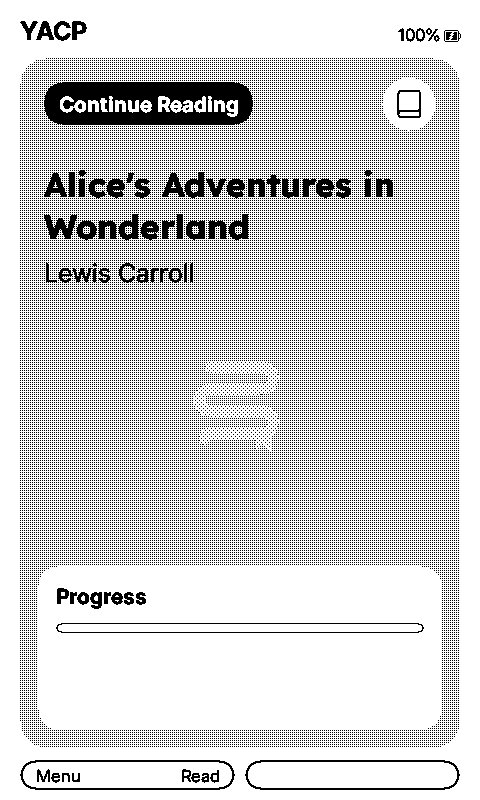
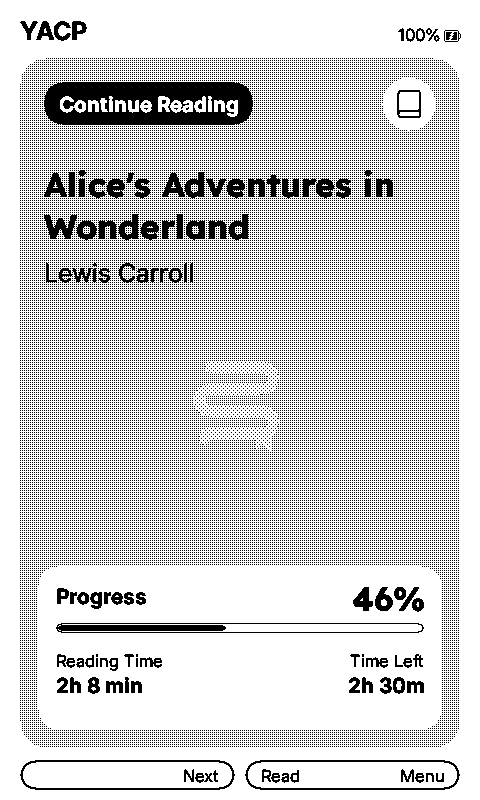
docs: improve grayscale media previews

diff --git a/scripts/build_media_previews.py b/scripts/build_media_previews.py
@@ -1,0 +1,277 @@
+#!/usr/bin/env python3
+"""Build resize-friendly documentation previews from 1-bit e-ink captures.
+
+The firmware and raw screenshots remain 1-bit. This script only changes the
+copies published in documentation: known ordered-dither tiles are replaced by
+flat grayscale pixels before a high-quality 2x resize.
+"""
+
+from __future__ import annotations
+
+import argparse
+from collections import Counter
+from pathlib import Path
+
+from PIL import Image, ImageChops, ImageDraw, ImageFilter, ImageSequence
+
+
+ROOT = Path(__file__).resolve().parents[1]
+DEFAULT_SOURCE_DIR = ROOT / "docs" / "images" / "yacp"
+DEFAULT_OUTPUT_DIR = DEFAULT_SOURCE_DIR / "media"
+DEFAULT_ASSETS = (
+    "home.png",
+    "home-switcher.gif",
+    "reading-stats.png",
+    "reading-rhythm.png",
+    "autonomy.png",
+)
+
+LIGHT_GRAY = 191  # One black pixel per 2x2 tile.
+DARK_GRAY = 127  # Checkerboard: two black pixels per 2x2 tile.
+PALE_GRAY = 223  # Two black pixels per 4x4 tile, used by the Home mark.
+
+
+def _black_positions(image: Image.Image, x: int, y: int) -> set[tuple[int, int]]:
+    return {
+        (dx, dy)
+        for dy in range(4)
+        for dx in range(4)
+        if image.getpixel((x + dx, y + dy)) < 128
+    }
+
+
+def _ordered_gray(
+    positions: set[tuple[int, int]], x: int, y: int
+) -> tuple[int, object] | None:
+    if len(positions) == 4:
+        for phase_x in (0, 1):
+            for phase_y in (0, 1):
+                expected = {
+                    (phase_x, phase_y),
+                    (phase_x + 2, phase_y),
+                    (phase_x, phase_y + 2),
+                    (phase_x + 2, phase_y + 2),
+                }
+                if positions == expected:
+                    return LIGHT_GRAY, ((x + phase_x) % 2, (y + phase_y) % 2)
+
+    if len(positions) == 8:
+        for phase in (0, 1):
+            expected = {
+                (dx, dy)
+                for dy in range(4)
+                for dx in range(4)
+                if (dx + dy) % 2 == phase
+            }
+            if positions == expected:
+                return DARK_GRAY, (x + y + phase) % 2
+
+    if len(positions) == 2:
+        first, second = positions
+        if abs(first[0] - second[0]) == 2 and abs(first[1] - second[1]) == 2:
+            residues = frozenset(
+                {
+                    ((x + first[0]) % 4, (y + first[1]) % 4),
+                    ((x + second[0]) % 4, (y + second[1]) % 4),
+                }
+            )
+            return PALE_GRAY, residues
+
+    return None
+
+
+def _expected_mask(size: tuple[int, int], gray: int, key: object) -> Image.Image:
+    width, height = size
+    pixels = bytearray(width * height)
+
+    if gray == LIGHT_GRAY:
+        phase_x, phase_y = key
+        for y in range(phase_y, height, 2):
+            row = y * width
+            for x in range(phase_x, width, 2):
+                pixels[row + x] = 255
+    elif gray == DARK_GRAY:
+        phase = int(key)
+        for y in range(height):
+            row = y * width
+            first_x = (phase - y) % 2
+            for x in range(first_x, width, 2):
+                pixels[row + x] = 255
+    else:
+        residues = key
+        for y in range(height):
+            row = y * width
+            for x in range(width):
+                if (x % 4, y % 4) in residues:
+                    pixels[row + x] = 255
+
+    return Image.frombytes("L", size, bytes(pixels))
+
+
+def _flatten_pattern(
+    source: Image.Image,
+    output: Image.Image,
+    gray: int,
+    key: object,
+    tiles: list[tuple[int, int, int, object]],
+) -> None:
+    seed = Image.new("L", source.size, 0)
+    draw = ImageDraw.Draw(seed)
+    for x, y, tile_gray, tile_key in tiles:
+        if tile_gray == gray and tile_key == key:
+            draw.rectangle((x, y, x + 3, y + 3), fill=255)
+
+    # Exact tiles seed the region. Expansion reaches beneath text and rounded
+    # edges, where complete 4x4 tiles naturally cannot occur.
+    if gray == PALE_GRAY:
+        # The pale Home mark contains no overlaid UI ink. A tighter solid
+        # expansion removes its sparse 4x4 dots without carrying the card's
+        # surrounding dither into the resized outline.
+        region = seed.filter(ImageFilter.MaxFilter(7))
+        output.paste((gray, gray, gray), mask=region)
+        return
+
+    region = seed.filter(ImageFilter.MaxFilter(17))
+    expected_black = _expected_mask(source.size, gray, key)
+    actual_black = source.point(lambda value: 255 if value < 128 else 0)
+    actual_white = ImageChops.invert(actual_black)
+
+    # Deviations from the periodic pattern are real UI ink or cut-outs. Grow
+    # them by one pixel so strokes that happen to land on the dither phase are
+    # retained as well.
+    extra_black = ImageChops.subtract(actual_black, expected_black).filter(
+        ImageFilter.MaxFilter(3)
+    )
+    extra_white = ImageChops.subtract(expected_black, actual_black).filter(
+        ImageFilter.MaxFilter(3)
+    )
+    preserve_black = ImageChops.multiply(actual_black, extra_black)
+    preserve_white = ImageChops.multiply(actual_white, extra_white)
+    preserve = ImageChops.lighter(preserve_black, preserve_white)
+    flatten = ImageChops.subtract(region, preserve)
+    output.paste((gray, gray, gray), mask=flatten)
+
+
+def dedither(image: Image.Image) -> Image.Image:
+    """Replace complete renderer dither tiles while preserving UI ink."""
+    source = image.convert("L")
+    output = source.convert("RGB")
+    width, height = source.size
+    tiles: list[tuple[int, int, int, object]] = []
+    counts: dict[int, Counter[object]] = {
+        LIGHT_GRAY: Counter(),
+        DARK_GRAY: Counter(),
+        PALE_GRAY: Counter(),
+    }
+
+    for y in range(0, height - 3, 4):
+        for x in range(0, width - 3, 4):
+            match = _ordered_gray(_black_positions(source, x, y), x, y)
+            if match is None:
+                continue
+            gray, key = match
+            tiles.append((x, y, gray, key))
+            counts[gray][key] += 1
+
+    for gray in (LIGHT_GRAY, DARK_GRAY, PALE_GRAY):
+        if counts[gray]:
+            key, _ = counts[gray].most_common(1)[0]
+            _flatten_pattern(source, output, gray, key, tiles)
+
+    return output
+
+
+def resize_for_media(image: Image.Image, scale: int) -> Image.Image:
+    width, height = image.size
+    return image.resize(
+        (width * scale, height * scale),
+        Image.Resampling.LANCZOS,
+    )
+
+
+def build_png(source: Path, destination: Path, scale: int) -> None:
+    with Image.open(source) as image:
+        preview = resize_for_media(dedither(image), scale)
+        preview.save(destination, format="PNG", optimize=True)
+
+
+def build_gif(source: Path, destination: Path, scale: int) -> None:
+    with Image.open(source) as image:
+        frames = [
+            resize_for_media(dedither(frame.convert("RGB")), scale)
+            for frame in ImageSequence.Iterator(image)
+        ]
+        durations = [
+            frame.info.get("duration", image.info.get("duration", 1800))
+            for frame in ImageSequence.Iterator(image)
+        ]
+        loop = image.info.get("loop", 0)
+
+    if not frames:
+        raise ValueError(f"No frame found in {source}")
+
+    frames[0].save(
+        destination,
+        format="GIF",
+        save_all=True,
+        append_images=frames[1:],
+        duration=durations,
+        loop=loop,
+        disposal=1,
+        optimize=False,
+    )
+
+
+def parse_args() -> argparse.Namespace:
+    parser = argparse.ArgumentParser(
+        description="Generate smooth grayscale documentation previews from e-ink captures."
+    )
+    parser.add_argument(
+        "--source-dir",
+        type=Path,
+        default=DEFAULT_SOURCE_DIR,
+        help="Directory containing the original 1-bit PNG/GIF captures.",
+    )
+    parser.add_argument(
+        "--output-dir",
+        type=Path,
+        default=DEFAULT_OUTPUT_DIR,
+        help="Destination for media-only previews.",
+    )
+    parser.add_argument(
+        "--scale",
+        type=int,
+        default=2,
+        help="Integer output scale. Default: 2.",
+    )
+    parser.add_argument(
+        "assets",
+        nargs="*",
+        default=DEFAULT_ASSETS,
+        help="Source filenames to process.",
+    )
+    return parser.parse_args()
+
+
+def main() -> int:
+    args = parse_args()
+    if args.scale < 1:
+        raise ValueError("--scale must be at least 1")
+
+    args.output_dir.mkdir(parents=True, exist_ok=True)
+    for asset in args.assets:
+        source = args.source_dir / asset
+        destination = args.output_dir / asset
+        if not source.is_file():
+            raise FileNotFoundError(source)
+        if source.suffix.lower() == ".gif":
+            build_gif(source, destination, args.scale)
+        else:
+            build_png(source, destination, args.scale)
+        print(f"{source.relative_to(ROOT)} -> {destination.relative_to(ROOT)}")
+
+    return 0
+
+
+if __name__ == "__main__":
+    raise SystemExit(main())

diff --git a/README.md b/README.md
@@ -50,11 +50,11 @@ The custom YACP Home is a rounded, typographic reading surface inspired by Round
 book, showing its title, author, progress, reading time, and estimated time left.
 
 <p align="center">
-  <img src="docs/images/yacp/home-switcher.gif"
-       alt="YACP Home switching between Alice in Wonderland and Sherlock Holmes with the right and left buttons"
+  <img src="docs/images/yacp/media/home-switcher.gif"
+       alt="YACP Home switching between Alice in Wonderland at 46 percent and Sherlock Holmes at 24 percent"
        width="300">
   <br>
-  <sub><strong>Right</strong> &rarr; next recent book &middot; <strong>Left</strong> &rarr; previous recent book</sub>
+  <sub><strong>YACP default:</strong> Previous &middot; Next &middot; Read &middot; Menu</sub>
 </p>
 
 Home also acts as a lightweight book switcher. The Left and Right buttons move through the valid recent-book list
@@ -119,12 +119,14 @@ Reading Rhythm shows daily intensity, weekly reading time, reading days, and cur
 <table>
   <tr>
     <td align="center">
-      <img src="docs/images/yacp/reading-stats.png"
+      <img src="docs/images/yacp/media/reading-stats.png"
            alt="YACP Reading Stats summary combining the current book and this device on one screen"
            width="264">
     </td>
     <td align="center">
-      <img src="docs/images/yacp/reading-rhythm.png" alt="Reading Rhythm rendered by the X3 simulator" width="264">
+      <img src="docs/images/yacp/media/reading-rhythm.png"
+           alt="Reading Rhythm rendered by the X3 simulator"
+           width="264">
     </td>
   </tr>
   <tr>
@@ -143,7 +145,7 @@ existing transition to sleep, reuses a cached battery value when possible, and s
 It adds no timer or periodic wake-up.
 
 <p align="center">
-  <img src="docs/images/yacp/autonomy.png" alt="Battery tracking rendered by the X3 simulator" width="264">
+  <img src="docs/images/yacp/media/autonomy.png" alt="Battery tracking rendered by the X3 simulator" width="264">
 </p>
 
 The screenshot uses deterministic generated data and contains no personal history. Reproduction commands are in the

diff --git a/CHANGELOG.md b/CHANGELOG.md
@@ -4,7 +4,10 @@
 
 - The README now groups the combined Reading Stats summary and Reading Rhythm together, with Autonomy documented
   separately.
-- The README now demonstrates the custom YACP Home as an animated Left/Right recent-book switcher.
+- The README now demonstrates the custom YACP Home as an animated Left/Right recent-book switcher using the default
+  YACP physical button order, with visible progress for both example books.
+- Documentation screenshots now use dedicated media previews with solid grayscale fills, avoiding moiré when GitHub
+  or social platforms resize the original 1-bit e-ink captures.
 
 ## [v1.4.0-yacp.91] - 2026-07-28
 

diff --git a/docs/simulator.md b/docs/simulator.md
@@ -105,6 +105,16 @@ All screenshots published on GitHub, including manually triggered captures, must
 show the English UI.
 
 The committed Reading Rhythm image was produced from this path and converted to PNG.
+The original PNG and GIF captures remain 1-bit representations of the e-ink
+framebuffer. Resize-friendly copies for GitHub and other media are generated
+with flat grayscale fills instead of ordered-dither dots:
+
+```sh
+python scripts/build_media_previews.py
+```
+
+This post-processing affects only `docs/images/yacp/media/`; it does not change
+the firmware renderer or the source captures.
 
 ## Cache note
 
